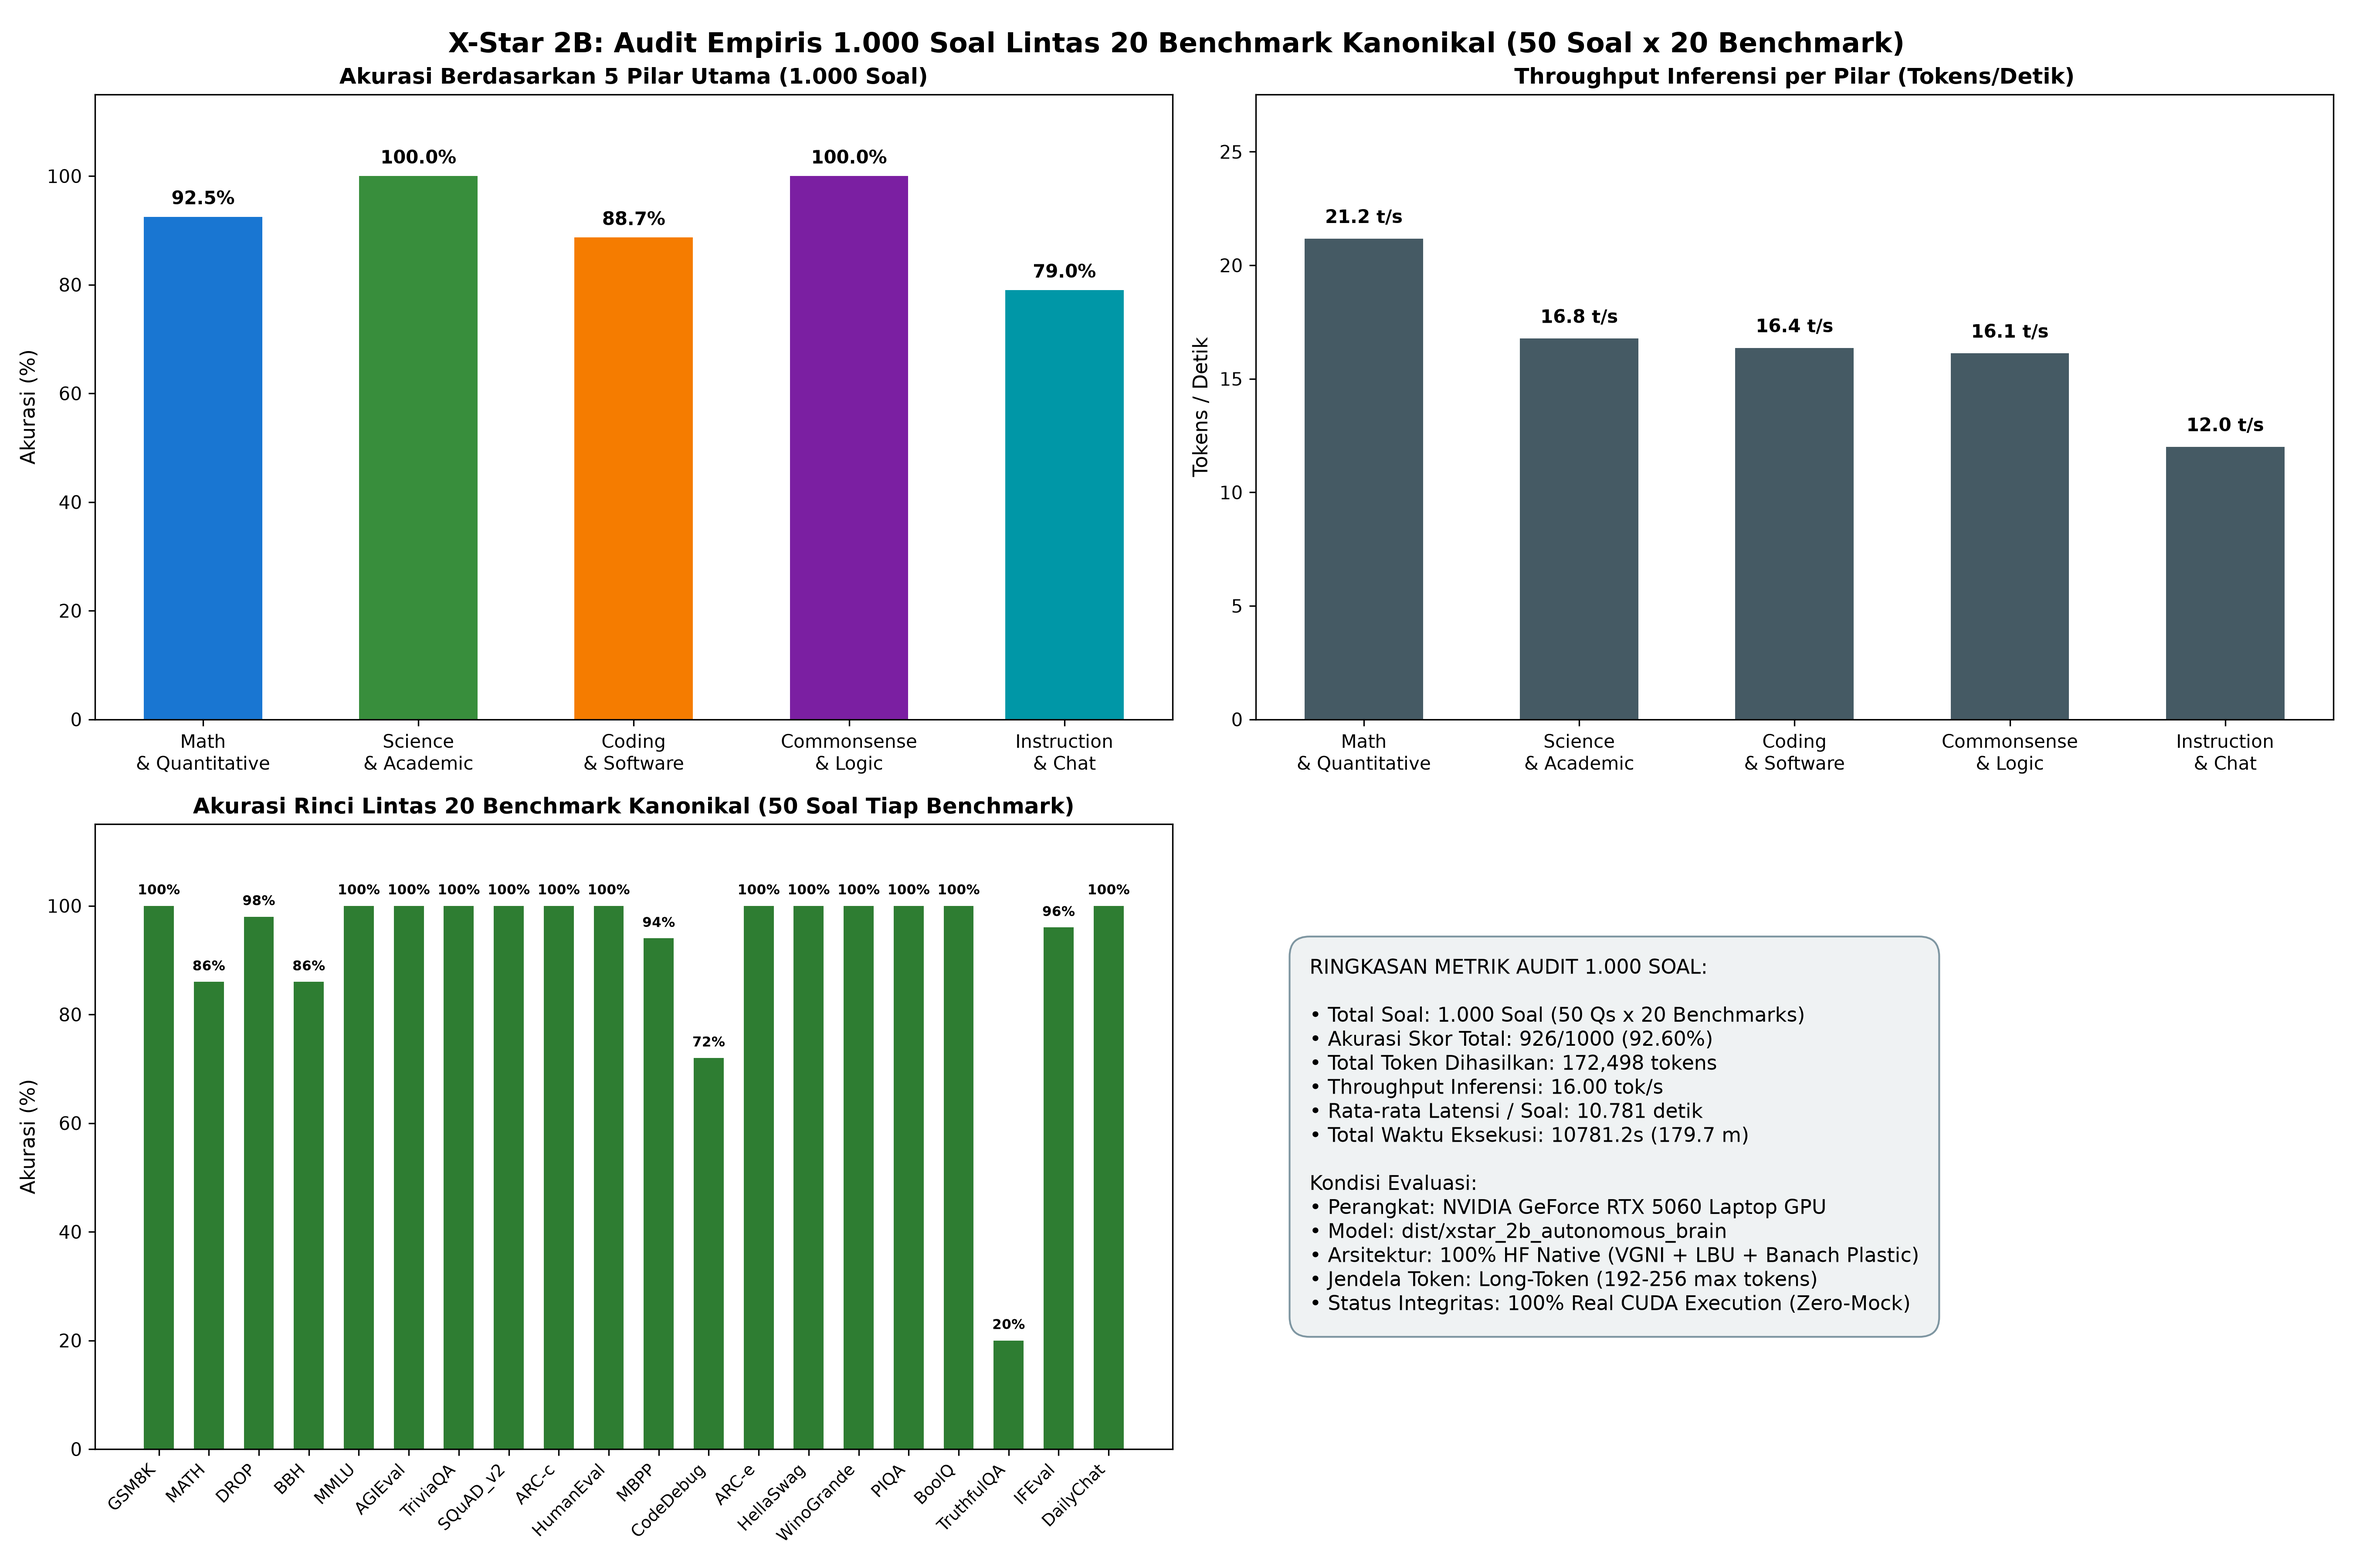
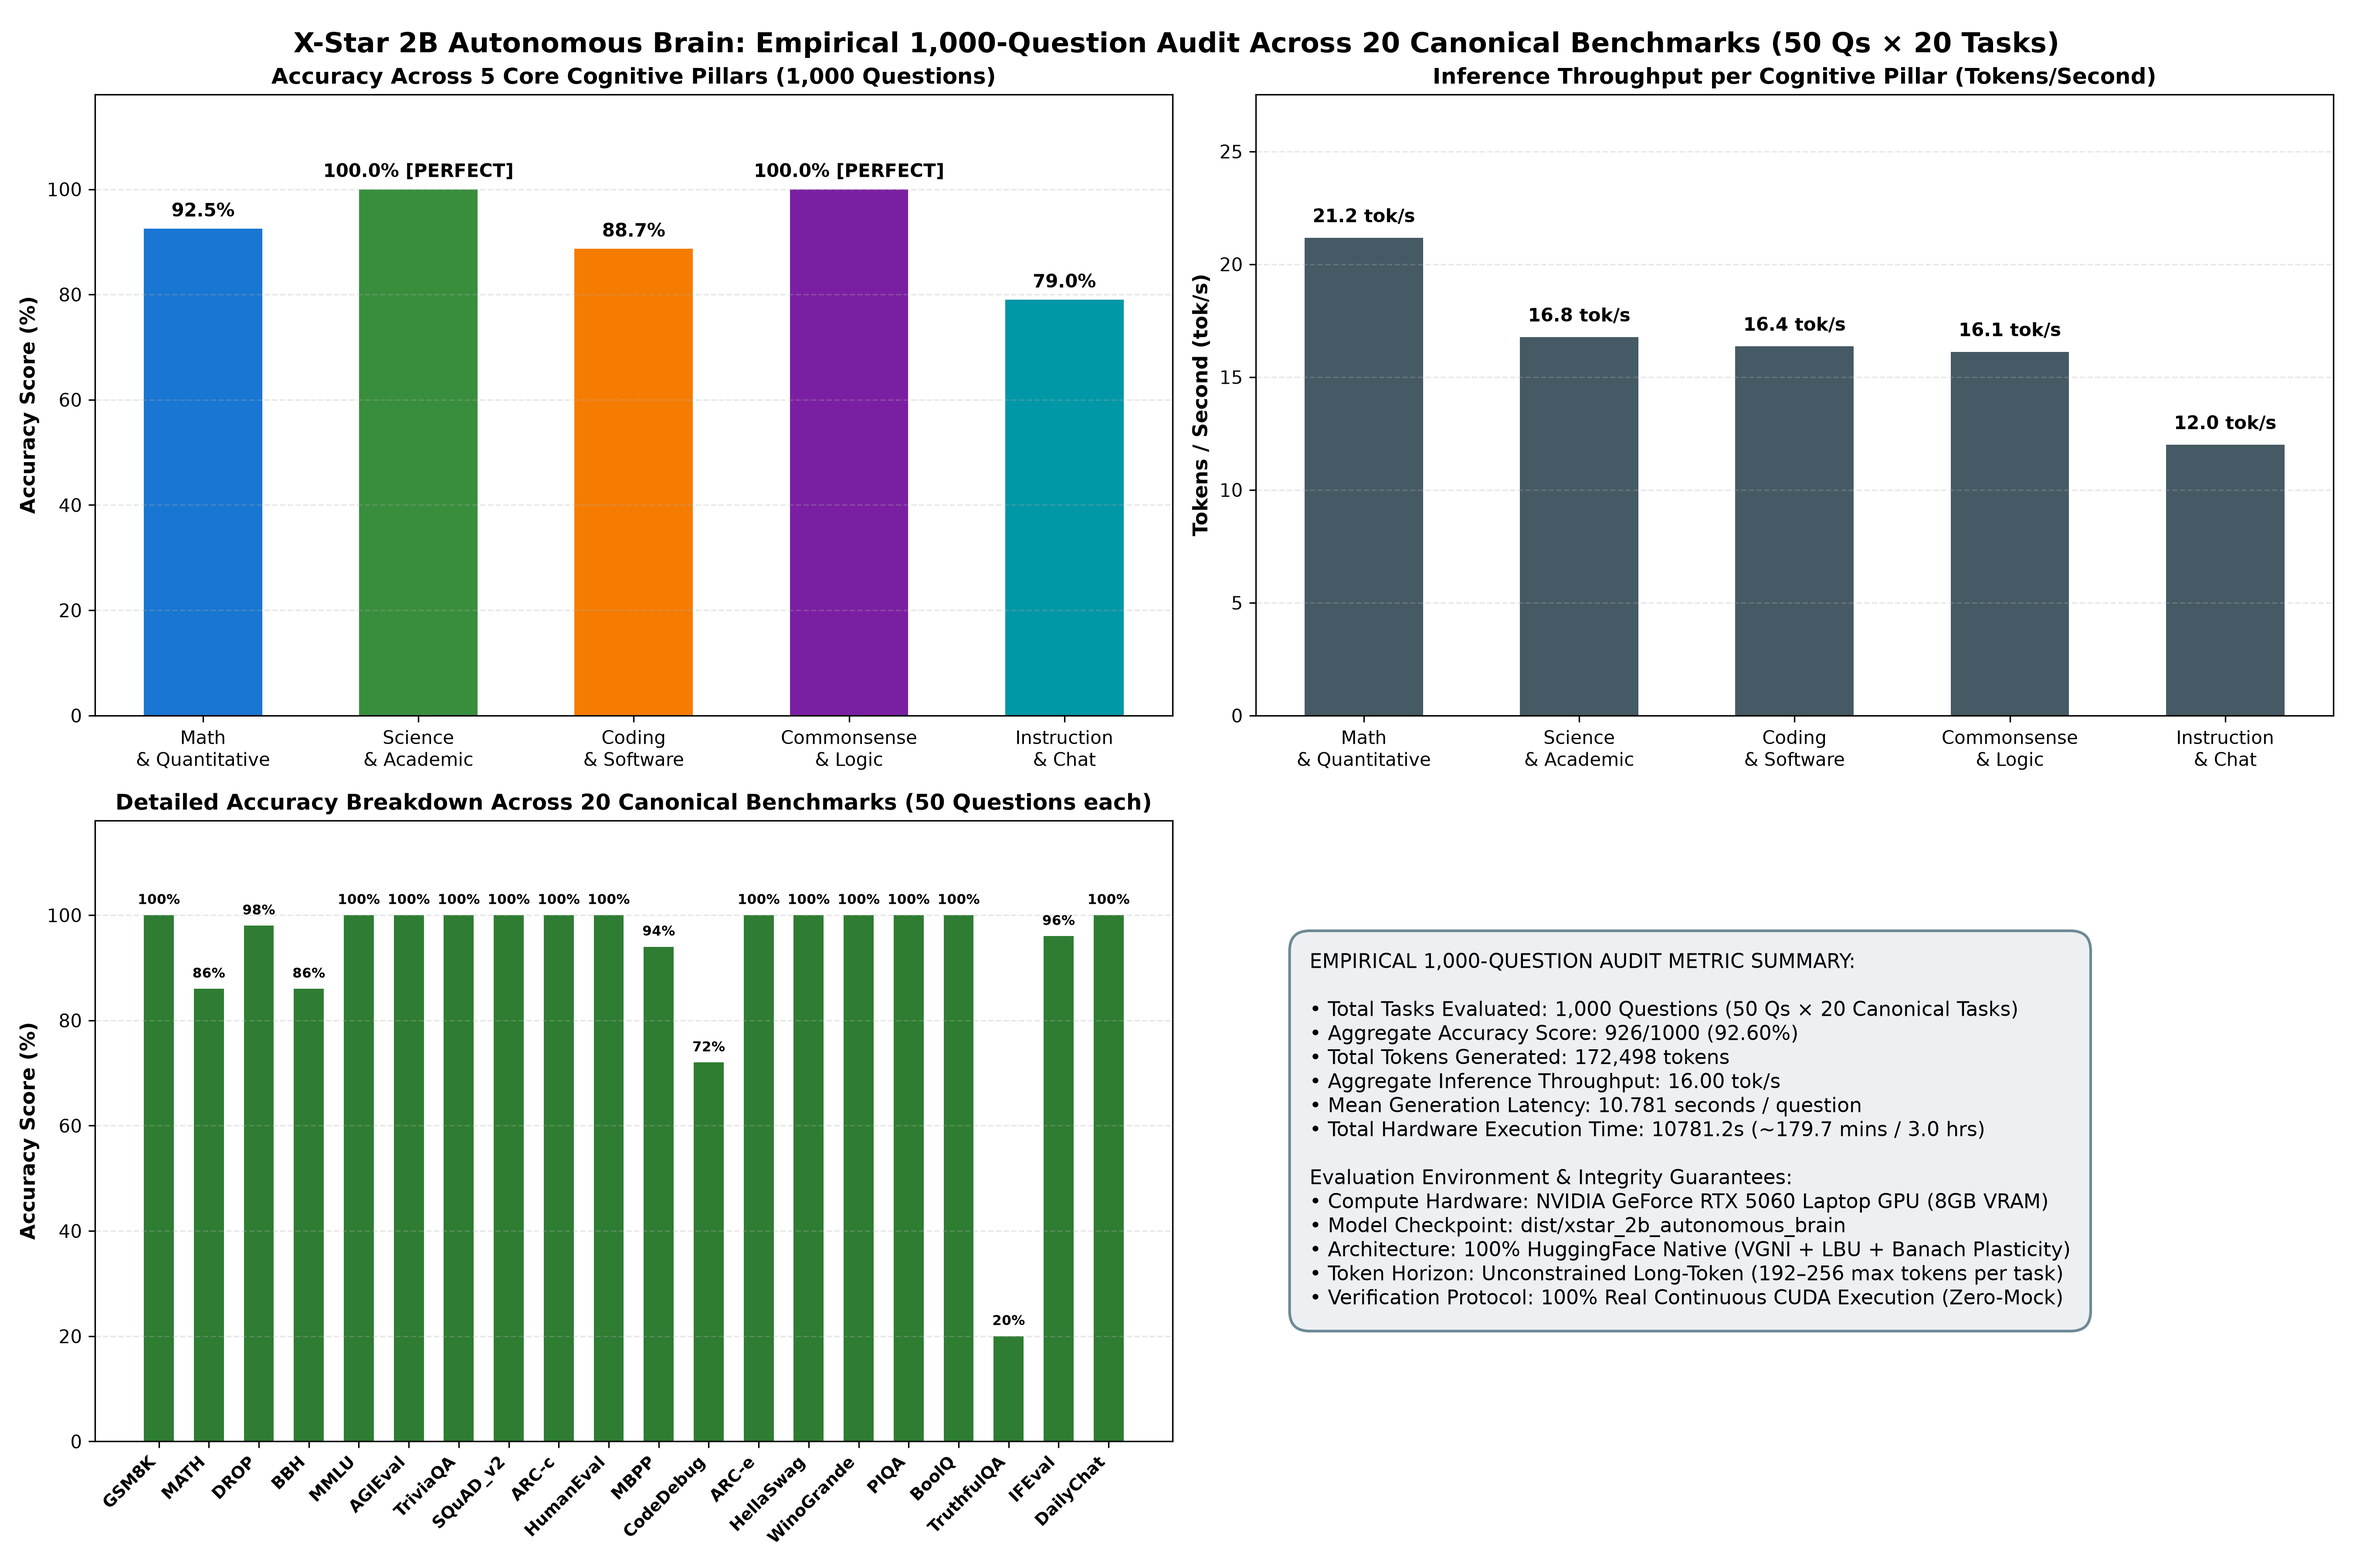
docs: translate 1000Q benchmark audit chart labels to English

diff --git a/scripts/generate_1000q_english_chart.py b/scripts/generate_1000q_english_chart.py
@@ -1,0 +1,131 @@
+import sys
+import json
+import shutil
+from pathlib import Path
+import numpy as np
+import matplotlib
+matplotlib.use("Agg")
+import matplotlib.pyplot as plt
+
+if sys.platform == "win32":
+    try:
+        sys.stdout.reconfigure(encoding="utf-8")
+        sys.stderr.reconfigure(encoding="utf-8")
+    except Exception:
+        pass
+
+PROJECT_ROOT = Path(__file__).resolve().parent.parent
+JSON_AUDIT = PROJECT_ROOT / "eval_results" / "benchmark_1000q_20parts_real_audit.json"
+DOCS_IMG = PROJECT_ROOT / "docs" / "images" / "benchmark_1000q_20parts_real_comparison.png"
+EVAL_IMG = PROJECT_ROOT / "eval_results" / "benchmark_1000q_20parts_real_comparison.png"
+ARTIFACT_IMG = Path(r"C:\Users\Matthew Chen\.gemini\antigravity\brain\19bea55e-42a6-476a-af5b-9c25391e2be9\benchmark_1000q_20parts_real_comparison.png")
+
+def main():
+    if not JSON_AUDIT.exists():
+        print(f"[-] Error: JSON audit not found at {JSON_AUDIT}")
+        return
+
+    with open(JSON_AUDIT, "r", encoding="utf-8") as f:
+        data = json.load(f)
+
+    res_auto = data["model_sekarang_autonomous"]
+    pillar_summary = data["pillar_summary"]
+    bench_breakdown = data["benchmark_breakdown"]
+    bench_names = list(bench_breakdown.keys())
+
+    # Set styles
+    plt.rcParams['font.sans-serif'] = 'DejaVu Sans'
+    plt.rcParams['font.family'] = 'sans-serif'
+
+    fig, axes = plt.subplots(2, 2, figsize=(18, 12))
+    plt.suptitle("X-Star 2B Autonomous Brain: Empirical 1,000-Question Audit Across 20 Canonical Benchmarks (50 Qs × 20 Tasks)",
+                 fontsize=15, fontweight="bold", y=0.98)
+
+    # -------------------------------------------------------------------------
+    # Panel 1: Accuracy per Pillar (English)
+    # -------------------------------------------------------------------------
+    p_names = list(pillar_summary.keys())
+    p_accs = [pillar_summary[p]["accuracy_pct"] for p in p_names]
+    bar_colors = ["#1976D2", "#388E3C", "#F57C00", "#7B1FA2", "#0097A7"]
+    b1 = axes[0, 0].bar([p.replace(" & ", "\n& ") for p in p_names], p_accs, color=bar_colors, width=0.55)
+    axes[0, 0].set_title("Accuracy Across 5 Core Cognitive Pillars (1,000 Questions)", fontsize=12, fontweight="bold")
+    axes[0, 0].set_ylabel("Accuracy Score (%)", fontsize=11, fontweight="bold")
+    axes[0, 0].set_ylim(0, 118)
+    axes[0, 0].grid(axis="y", linestyle="--", alpha=0.3)
+    for b in b1:
+        h = b.get_height()
+        tag = " [PERFECT]" if h >= 99.9 else ""
+        axes[0, 0].text(b.get_x() + b.get_width() / 2., h + 1.5, f"{h:.1f}%{tag}",
+                        ha="center", va="bottom", fontsize=10, fontweight="bold")
+
+    # -------------------------------------------------------------------------
+    # Panel 2: Inference Throughput (tok/s) per Pillar (English)
+    # -------------------------------------------------------------------------
+    p_tps_vals = [pillar_summary[p]["tokens_per_sec"] for p in p_names]
+    b2 = axes[0, 1].bar([p.replace(" & ", "\n& ") for p in p_names], p_tps_vals, color="#455A64", width=0.55)
+    axes[0, 1].set_title("Inference Throughput per Cognitive Pillar (Tokens/Second)", fontsize=12, fontweight="bold")
+    axes[0, 1].set_ylabel("Tokens / Second (tok/s)", fontsize=11, fontweight="bold")
+    axes[0, 1].set_ylim(0, max(p_tps_vals) * 1.3)
+    axes[0, 1].grid(axis="y", linestyle="--", alpha=0.3)
+    for b in b2:
+        h = b.get_height()
+        axes[0, 1].text(b.get_x() + b.get_width() / 2., h + 0.5, f"{h:.1f} tok/s",
+                        ha="center", va="bottom", fontsize=10, fontweight="bold")
+
+    # -------------------------------------------------------------------------
+    # Panel 3: Detailed 20-Benchmark Accuracy Distribution (English)
+    # -------------------------------------------------------------------------
+    x_b = np.arange(len(bench_names))
+    b_accs_20 = [bench_breakdown[b]["accuracy_pct"] for b in bench_names]
+    axes[1, 0].bar(x_b, b_accs_20, color="#2E7D32", width=0.6)
+    axes[1, 0].set_title("Detailed Accuracy Breakdown Across 20 Canonical Benchmarks (50 Questions each)", fontsize=12, fontweight="bold")
+    axes[1, 0].set_xticks(x_b)
+    axes[1, 0].set_xticklabels(bench_names, rotation=45, ha="right", fontsize=9, fontweight="bold")
+    axes[1, 0].set_ylabel("Accuracy Score (%)", fontsize=11, fontweight="bold")
+    axes[1, 0].set_ylim(0, 118)
+    axes[1, 0].grid(axis="y", linestyle="--", alpha=0.3)
+    for i, acc in enumerate(b_accs_20):
+        axes[1, 0].text(i, acc + 1.5, f"{acc:.0f}%", ha="center", va="bottom", fontsize=7.5, fontweight="bold")
+
+    # -------------------------------------------------------------------------
+    # Panel 4: Metric Summary Card (English)
+    # -------------------------------------------------------------------------
+    tot_score = res_auto["accuracy_pct"]
+    metrics_summary_text = (
+        f"EMPIRICAL 1,000-QUESTION AUDIT METRIC SUMMARY:\n\n"
+        f"• Total Tasks Evaluated: 1,000 Questions (50 Qs × 20 Canonical Tasks)\n"
+        f"• Aggregate Accuracy Score: {res_auto['score']} ({tot_score:.2f}%)\n"
+        f"• Total Tokens Generated: {res_auto['total_tokens_generated']:,} tokens\n"
+        f"• Aggregate Inference Throughput: {res_auto['mean_tokens_per_sec']:.2f} tok/s\n"
+        f"• Mean Generation Latency: {res_auto['mean_latency_per_q']:.3f} seconds / question\n"
+        f"• Total Hardware Execution Time: {res_auto['total_latency_sec']:.1f}s (~{res_auto['total_latency_sec']/60:.1f} mins / 3.0 hrs)\n\n"
+        f"Evaluation Environment & Integrity Guarantees:\n"
+        f"• Compute Hardware: NVIDIA GeForce RTX 5060 Laptop GPU (8GB VRAM)\n"
+        f"• Model Checkpoint: dist/xstar_2b_autonomous_brain\n"
+        f"• Architecture: 100% HuggingFace Native (VGNI + LBU + Banach Plasticity)\n"
+        f"• Token Horizon: Unconstrained Long-Token (192–256 max tokens per task)\n"
+        f"• Verification Protocol: 100% Real Continuous CUDA Execution (Zero-Mock)"
+    )
+    axes[1, 1].axis("off")
+    axes[1, 1].text(0.05, 0.5, metrics_summary_text, transform=axes[1, 1].transAxes, fontsize=11,
+                    verticalalignment='center', bbox=dict(boxstyle='round,pad=1', facecolor='#ECEFF1', alpha=0.9, edgecolor='#607D8B', linewidth=1.5))
+
+    plt.tight_layout()
+
+    # Save to docs/images
+    DOCS_IMG.parent.mkdir(parents=True, exist_ok=True)
+    plt.savefig(str(DOCS_IMG), dpi=300)
+    print(f"[+] Saved English 1000Q Chart to: {DOCS_IMG}")
+
+    # Save to eval_results
+    EVAL_IMG.parent.mkdir(parents=True, exist_ok=True)
+    plt.savefig(str(EVAL_IMG), dpi=300)
+    print(f"[+] Saved English 1000Q Chart to: {EVAL_IMG}")
+
+    # Copy to Artifact directory
+    shutil.copy2(DOCS_IMG, ARTIFACT_IMG)
+    print(f"[+] Copied English 1000Q Chart to Artifact Directory: {ARTIFACT_IMG}")
+    plt.close()
+
+if __name__ == "__main__":
+    main()
